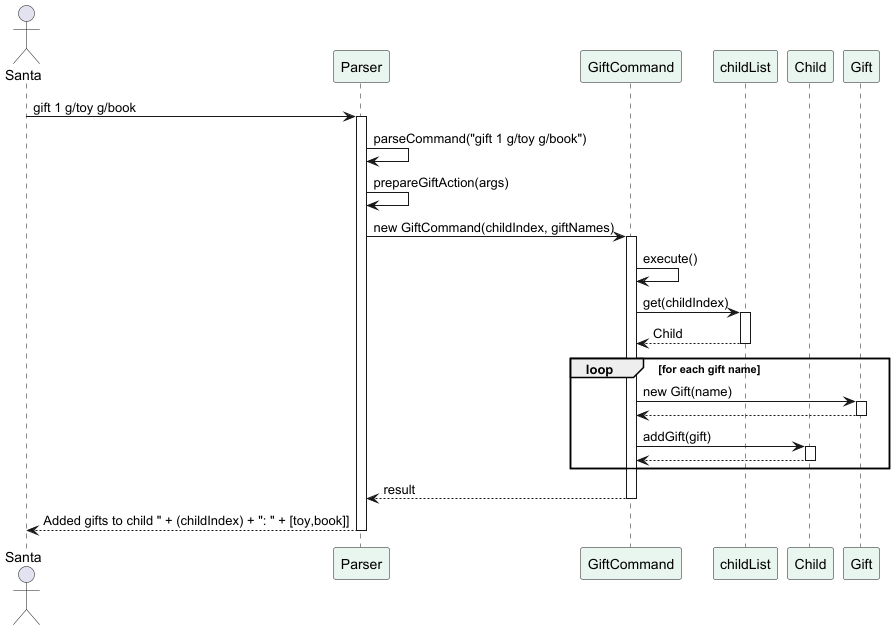
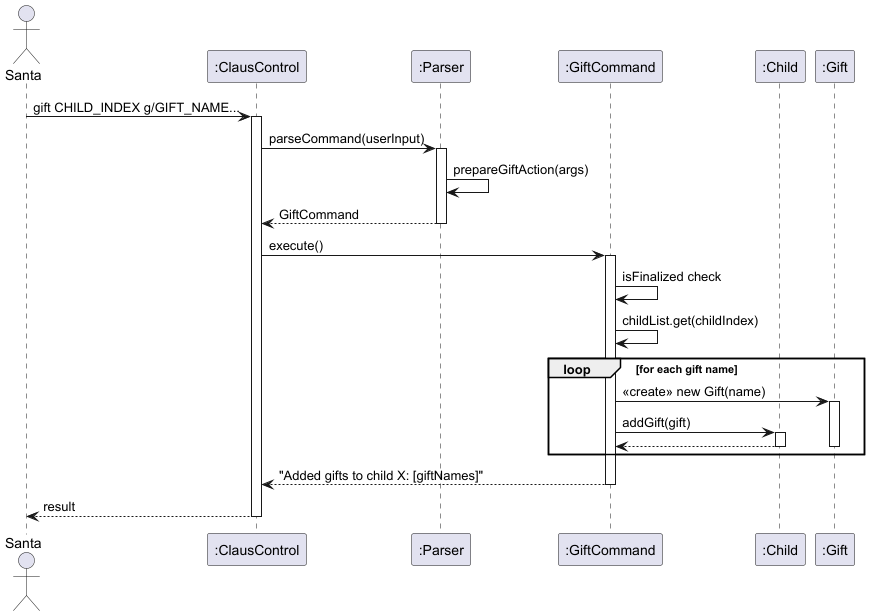
Fix UML diagrams and fix bug in degift command

diff --git a/src/main/java/seedu/clauscontrol/parser/Parser.java b/src/main/java/seedu/clauscontrol/parser/Parser.java
@@ -27,9 +27,9 @@ import seedu.clauscontrol.commands.DeleteCommand;
 import seedu.clauscontrol.commands.AddTodoCommand;
 import seedu.clauscontrol.commands.TodoListCommand;
 import seedu.clauscontrol.commands.EditTodoCommand;
+import seedu.clauscontrol.data.child.Child;
 import seedu.clauscontrol.data.todo.Todo;
 import seedu.clauscontrol.commands.RemoveTodoCommand;
-
 
 import seedu.clauscontrol.data.exception.IllegalValueException;
 
@@ -50,9 +50,13 @@ public class Parser {
     private static final String UNDELIVERED = "d/undelivered";
 
     private final ArrayList<Todo> todoList;
+    private ArrayList<Child> childList = new ArrayList<>();
 
     public Parser(ArrayList<Todo> todoList) {
         this.todoList = todoList;
+    }
+    public void setChildList(ArrayList<Child> childList) {
+        this.childList = childList;
     }
     //@@author
 
@@ -181,7 +185,18 @@ public class Parser {
         case "gift":
             return prepareGiftAction(arguments);
         case "degift":
-            pendingCommand = prepareDeGiftAction(arguments);
+            DeGiftCommand temp = prepareDeGiftAction(arguments);
+            int degiftChildIndex = temp.getChildIndex();
+            int degiftGiftIndex = temp.getGiftIndex();
+            if (degiftChildIndex >= 1 && degiftChildIndex <= childList.size()) {
+                Child dgChild = childList.get(degiftChildIndex - 1);
+                if (degiftGiftIndex >= 1 && degiftGiftIndex <= dgChild.getGifts().size()) {
+                    if (dgChild.getGifts().get(degiftGiftIndex - 1).isDelivered()) {
+                        throw new IllegalValueException("Cannot remove a delivered gift!");
+                    }
+                }
+            }
+            pendingCommand = temp;
             throw new IllegalValueException("WARNING: You are about to remove a gift. Type 'confirm' to proceed.");
         case "delivery_status":
             return prepareDeliverAction(arguments);
@@ -191,7 +206,7 @@ public class Parser {
             return preparePreparedAction(arguments);
         default:
             throw new IllegalValueException(
-                    "Unknown command. Did you mean 'child' or 'childlist'?");
+                    "Unknown command:( Please enter valid command");
         }
         //@@author
     }

diff --git a/src/main/java/seedu/clauscontrol/commands/DeGiftCommand.java b/src/main/java/seedu/clauscontrol/commands/DeGiftCommand.java
@@ -3,16 +3,38 @@ package seedu.clauscontrol.commands;
 
 import seedu.clauscontrol.data.child.Child;
 import seedu.clauscontrol.data.gift.Gift;
-
+/**
+ * Removes a gift from the giftlist for a child.
+ * <p>
+ * This command allows the user to remove a particular gift for a particular child.
+ * It validates the child and gift indices before updating the status.
+ */
 public class DeGiftCommand extends Command {
     private int childIndex;
     private int giftIndex;
 
+    /**
+     *
+     * @param childIndex the index of the target child
+     * @param giftIndex  the index of the target gift
+     */
     public DeGiftCommand(int childIndex, int giftIndex) {
         this.childIndex = childIndex;
         this.giftIndex = giftIndex;
     }
+    public int getChildIndex() {
+        return childIndex;
+    }
+    public int getGiftIndex() {
+        return giftIndex;
+    }
 
+    /**
+     * Executes the degift command.
+     * Validates indices of child and gift.
+     *
+     * @return a  message or an error message if validation fails
+     */
     @Override
     public String execute() {
         if (childIndex < 1 || childIndex > childList.size()) {

diff --git a/src/main/java/seedu/clauscontrol/data/gift/Gift.java b/src/main/java/seedu/clauscontrol/data/gift/Gift.java
@@ -11,7 +11,7 @@ public class Gift {
 
     public enum State {
         PREPARED,
-        IN_PROGRESS,
+        UNDELIVERED,
         DELIVERED
     }
 
@@ -24,7 +24,7 @@ public class Gift {
         }
 
         this.giftName = giftName;
-        this.state = State.IN_PROGRESS;
+        this.state = State.UNDELIVERED;
         logger.info("Created gift: " + giftName);
     }
 
@@ -46,7 +46,7 @@ public class Gift {
     }
 
     public void markUndelivered() {
-        this.state = State.IN_PROGRESS;
+        this.state = State.UNDELIVERED;
     }
 
     public void markDelivered() {
@@ -62,7 +62,7 @@ public class Gift {
         case DELIVERED:
             return "[Delivered] " + giftName;
         default:
-            return "[In progress] " + giftName;
+            return "[Undelivered] " + giftName;
 
         }
     }

diff --git a/src/main/java/seedu/clauscontrol/commands/DeliveryStatusCommand.java b/src/main/java/seedu/clauscontrol/commands/DeliveryStatusCommand.java
@@ -49,7 +49,7 @@ public class DeliveryStatusCommand extends Command {
         if (delivered && gift.isDelivered()) {
             return "Gift is already delivered!";
         }
-        if (!delivered && !gift.isDelivered()) {
+        if (!delivered && gift.getState() == Gift.State.UNDELIVERED) {
             return "Gift is already undelivered!";
         }
         if (delivered) {

diff --git a/src/main/java/seedu/clauscontrol/ClausControl.java b/src/main/java/seedu/clauscontrol/ClausControl.java
@@ -77,6 +77,7 @@ public class ClausControl {
             this.todoList = new ArrayList<>();
         }
         this.parser = new Parser(todoList);  // initialize AFTER loading todos
+        this.parser.setChildList(childList);
         //@@author
     }
     //@@author

diff --git a/docs/DeveloperGuide.md b/docs/DeveloperGuide.md
@@ -38,6 +38,10 @@ It handles saving and loading of  data such as:
 - Todo items
 Data is stored in a file and loaded back into the system when the application starts.
 
+The class diagram is-
+
+![StorageClassDiagram.png](diagrams/StorageClassDiagram.png)
+
 #### Implementation
 **Saving data**
 The save() method writes the lists into a .txt file in a structured format.
@@ -63,6 +67,9 @@ The load() method reconstructs data from the .txt file.
    default → remains IN_PROGRESS
 5. Adds gift to the current child
 
+Below is the sequence diagram-
+
+![StorageSequenceDiagram.png](diagrams/StorageSequenceDiagram.png)
 
 #### Design
 The storage component provides a unified interface (`Storage.java`) that handles the storage related operations.
@@ -70,16 +77,6 @@ The storage component provides a unified interface (`Storage.java`) that handles
 #### Usage
 - When the application starts, data is loaded from storage.
 - When the user inputs commands,the resulting data changes are saved.
-
-#### UML diagrams to show control flow
-The class diagram and sequence diagrams are as follows-
-
-
-![StorageClassDiagram.png](diagrams/StorageClassDiagram.png)
-
-![StorageSequenceDiagram.png](diagrams/StorageSequenceDiagram.png)
-
-
 
 #### Notes
 - Storage is independent of the command execution logic
@@ -802,6 +799,7 @@ The following steps occur-
 
 #### UML Diagram- Sequence Diagram
 Given below is the sequence diagram
+
 ![GiftSequenceDiagram.png](diagrams/GiftSequenceDiagram.png)
 
 **Aspect:** How to implement the Gift feature
@@ -871,7 +869,7 @@ The following steps occur-
 Appropriate error messages are returned in case a check fails.
 
 #### UML Diagram- Sequence Diagram
-Given below is the sequence diagram
+Given below is the sequence diagram which describes the happy path.
 ![DeliveryStatusSequenceDiagram.png](diagrams/DeliveryStatusSequenceDiagram.png)
 
 **Aspect:** How to implement the Delivery Status feature
@@ -934,6 +932,7 @@ When Santa enters "giftlist " the Parser creates a GiftListCommand object.
 
 #### UML Diagram- Sequence Diagram
 Given below is the sequence diagram.
+
 ![GiftListSequenceDiagram.png](diagrams/GiftListSequenceDiagram.png)
 
 **Aspect:** How to implement the GiftList feature
